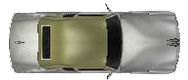
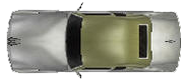
Implementación del efecto coalisión choque, otro coche del mismo efecto

diff --git a/index.html b/index.html
@@ -20,16 +20,12 @@
 </head>
 <body>
 
-<!-- Jose Manuel Benitez Perez
-Ingeniero en Desarrollo de Software
-Programación Avanzada Internet
-Semestre VII, T.V
--->
 <canvas id="myCanvas" width="1158" height="808"></canvas>
 <script>
-    var canvas = document.getElementById("myCanvas")
-    var ctx = canvas.getContext('2d')
+    var canvas = document.getElementById("myCanvas");
+    var ctx = canvas.getContext('2d');
 
+    // Función para solicitar la animación
     window.requestAnimationFrame = (function () {
         return window.requestAnimationFrame ||
             window.webkitRequestAnimationFrame ||
@@ -39,24 +35,19 @@ Semestre VII, T.V
             };
     }());
 
-    //Imagen de fondo
+    // Cargar la imagen de fondo
     const imagenFondo = new Image();
-    imagenFondo.src = "img/map.png"
+    imagenFondo.src = "img/map.png";
     imagenFondo.onload = () => {
         ctx.drawImage(imagenFondo, 0, 0, canvas.width, canvas.height);
-
     };
 
-    //Declaraciones de variables
-    var canvasSize = 500;
-    var cw = canvas.width, ch = canvas.height;
+    // Declaraciones generales
     var tx = 0, ty = 0;
-    var wx = 120, wy = 320;
     var moving = false;
-    let image = new Image();
+    var x = 516, y = 564, dir = 0, speed = 6;
 
-    // Declaración y de implementación imagenes del jugador Sprite
-    var x = 516, y = 564, dir = 0, speed = 2;
+    // Variables para el uso de los sprite imágenes del jugador
     var playerSprites = {
         up: new Image(),
         down: new Image(),
@@ -68,53 +59,59 @@ Semestre VII, T.V
     playerSprites.down.src = "img/playerRun4.png";
     playerSprites.left.src = "img/playerRun2.png";
     playerSprites.right.src = "img/playerRun1.png";
-    playerSprites.stop.src = "img/spriteParado.png"
+    playerSprites.stop.src = "img/spriteParado.png";
 
-    //Declaración y de implementación imagenes los autos
+    // Declaraciones de variables para el uso de los sprite imágenes de los autos
     var auto = new Image();
     auto.src = "img/autoI.png";
-    var squareSize = 50;
-    var positionAutoX = 516// Cambia el valor de positionAutoY a la posición vertical deseada
-    var squareX = 0; // Posición de la figura cuadrada
-    var squareSpeed = 8; // Velocidad de la figura cuadrada
+    var auto2 = new Image();
+    auto2.src = "img/autoII.png";
+    var squareX = 0;
+    var squareSpeed = 8;
     var canvasWidth = canvas.width;
-    var anchoAutoI = 190; // Cambia este valor al ancho deseado
-    var altoAutoI = 80; // Cambia este valor al alto deseado
+    var anchoAutoI = 190;
+    var altoAutoI = 80;
 
-    // Función para mover el jugador
+    // Definición de valores de colisión para los autos
+    var squareSize = 50;
+    var positionAutoY = canvas.height / 1.90 - squareSize / 1.90;
+    var positionAutoY2 = canvas.height / 2.4 - altoAutoI / 2.4;
+    var squareX2 = canvasWidth;
+
+    // Controles del jugador
     document.addEventListener("keydown", (e) => {
         if (!moving) {
             moving = true;
             switch (e.keyCode) {
-                case 87: // W
-                    dir = 1;
+                case 87: 
+                    dir = 1; 
                     break;
-                case 83: // S
-                    dir = 2;
+                case 83: 
+                    dir = 2; 
                     break;
-                case 68: // D
-                    dir = 3;
+                case 68: 
+                    dir = 3; 
                     break;
-                case 65: // A
-                    dir = 4;
+                case 65: 
+                    dir = 4; 
                     break;
             }
         }
     });
+
     document.addEventListener("keyup", (e) => {
         moving = false;
     });
 
-    // Función para actualizar el juego y los efectos de colisión o actualización fotograma
     function update() {
         if (moving) {
             if (dir == 1 && y > 0) {
                 y -= speed;
             }
-            if (dir == 2 && y + 50 < ch) {
+            if (dir == 2 && y + 50 < canvas.height) {
                 y += speed;
             }
-            if (dir == 3 && x + 50 < cw) {
+            if (dir == 3 && x + 50 < canvas.width) {
                 x += speed;
             }
             if (dir == 4 && x > 0) {
@@ -122,11 +119,28 @@ Semestre VII, T.V
             }
         }
 
-        // Colisión con el objetivo
-        if (x < tx + 20 && x + 50 > tx && y < ty + 20 && y + 50 > ty) {
-            console.log("Colisión con el objetivo");
-            tx = randomInteger(cw);
-            ty = randomInteger(ch);
+        // Colisión con el objetivo (carro1)
+        if (
+            x < squareX + squareSize &&
+            x + 50 > squareX &&
+            y < positionAutoY + squareSize &&
+            y + 50 > positionAutoY
+        ) {
+            console.log("Colisión con el objetivo (carro1)");
+            x = 516;
+            y = 564;
+        }
+
+        // Colisión con el objetivo (carro2)
+        if (
+            x < squareX2 + squareSize &&
+            x + 50 > squareX2 &&
+            y < positionAutoY2 + squareSize &&
+            y + 50 > positionAutoY2
+        ) {
+            console.log("Colisión con el objetivo (carro2)");
+            x = 516;
+            y = 564;
         }
 
         squareX += squareSpeed;
@@ -134,25 +148,22 @@ Semestre VII, T.V
         if (squareX > canvasWidth) {
             squareX = -squareSize;
         }
+
+        moveAuto2();
         drawScene();
         window.requestAnimationFrame(update);
     }
 
-    // Función para dibujar la escena y la pintura del juego
+    
     function drawScene() {
-        //Fondo del escenario
-        ctx.clearRect(0, 0, cw, ch);
+        ctx.clearRect(0, 0, canvas.width, canvas.height);
         ctx.drawImage(imagenFondo, 0, 0, canvas.width, canvas.height);
 
-        
-            // Restablece la posición predeterminada del auto cuando no se mueve a la izquierda
-            positionAutoY = 400;
-    
+        ctx.drawImage(auto, squareX, positionAutoY, anchoAutoI, altoAutoI);
+        ctx.drawImage(auto2, squareX2, positionAutoY2, anchoAutoI, altoAutoI);
 
-        ctx.drawImage(auto, squareX, positionAutoY, anchoAutoI, altoAutoI); // Ajusta la posición Y aquí
-
-        // Dibuja el sprite del jugador según la dirección
         switch (dir) {
+            // Dibuja el sprite del jugador según la dirección
             case 1:
                 ctx.drawImage(playerSprites.up, x, y, 50, 50);
                 break;
@@ -169,15 +180,14 @@ Semestre VII, T.V
                 ctx.drawImage(playerSprites.stop, x, y, 50, 50);
                 break;
         }
-
     }
 
-    // Para saber las direcciones con click mouse
-    canvas.addEventListener("mousedown", function (event) {
-        var x = event.layerX;
-        var y = event.layerY;
-        console.log("Coordenadas x:", x, "y:", y);
-    });
+    function moveAuto2() {
+        squareX2 -= squareSpeed; 
+        if (squareX2 + anchoAutoI < 0) {
+            squareX2 = canvasWidth;
+        }
+    }
 
     update();
 </script>
